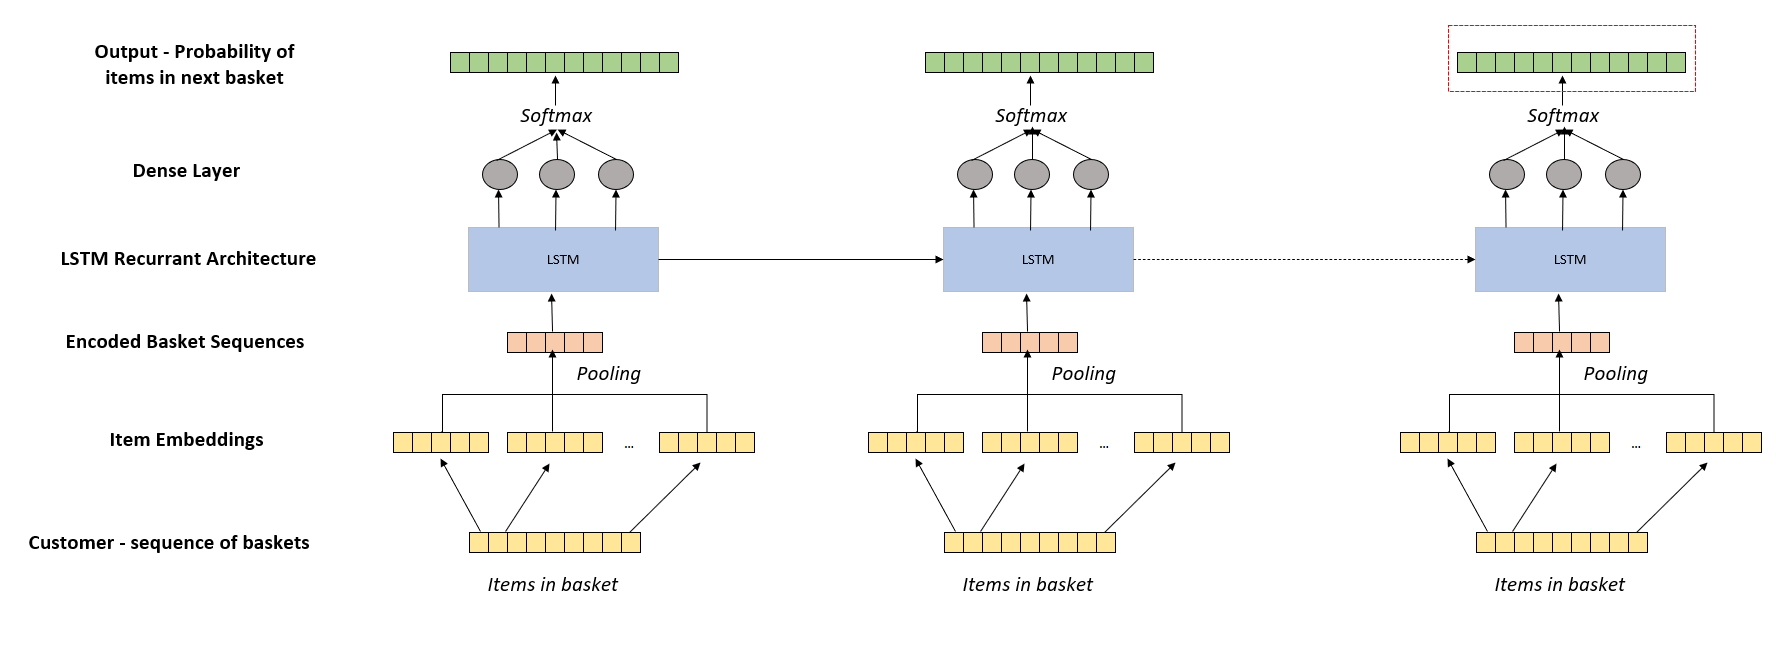
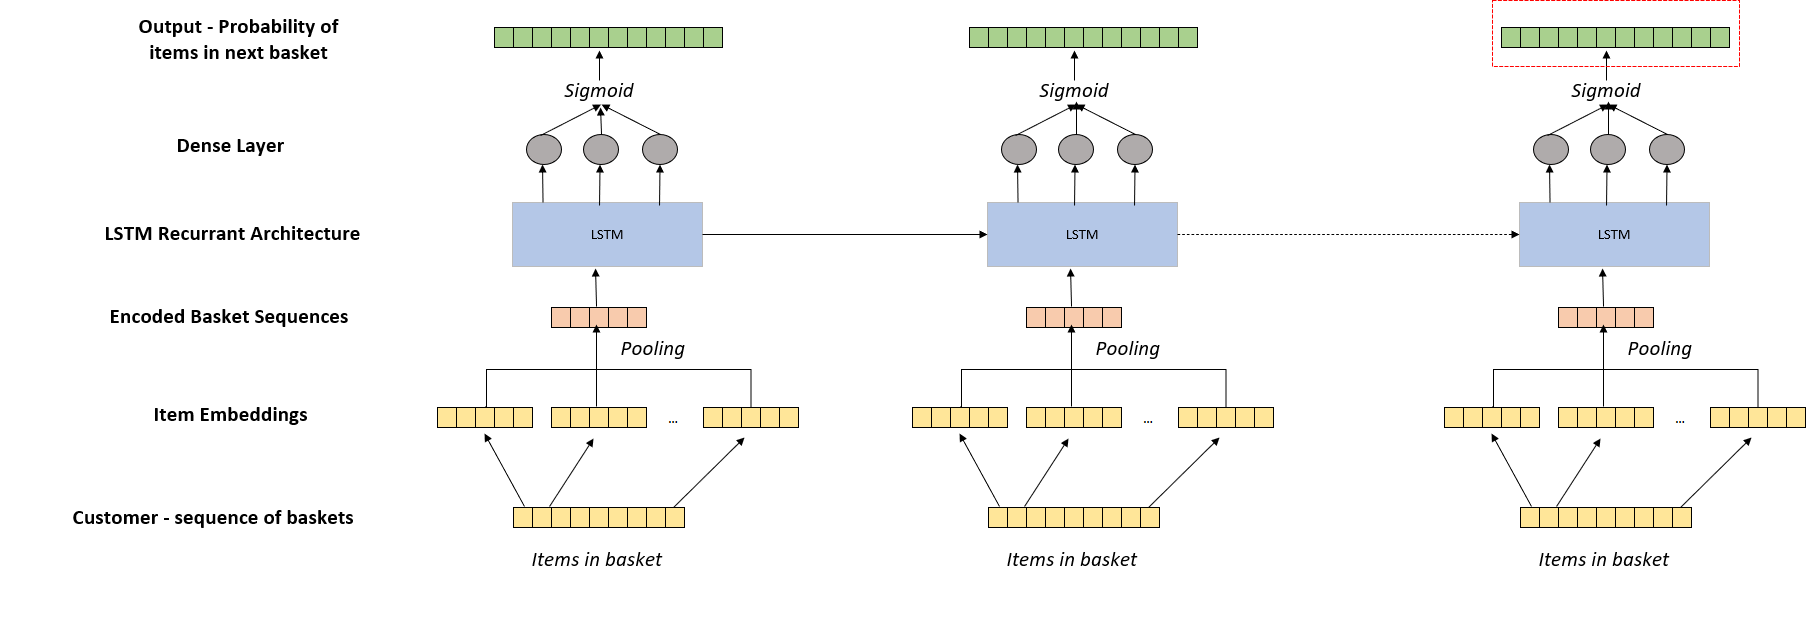
update readme model architecture

diff --git a/README.md b/README.md
@@ -65,7 +65,7 @@ The next basket prediction model is based on the following architecture:
 
 The input data contains sequences of customer baskets.  The model is trained by first converting the items into
 embeddings.  A representation of the basket is then generated using average pooling.  This representation of the
-basket is then passed through an LSTM layer.  A dense layer with a softmax activation then calculates the probability
+basket is then passed through an LSTM layer.  A dense layer with a sigmoid activation then calculates the probability
 that each item will be found in the next basket of the customer sequence.  The final output of the sequence represents
 the customers prediction for their next transaction.
 
